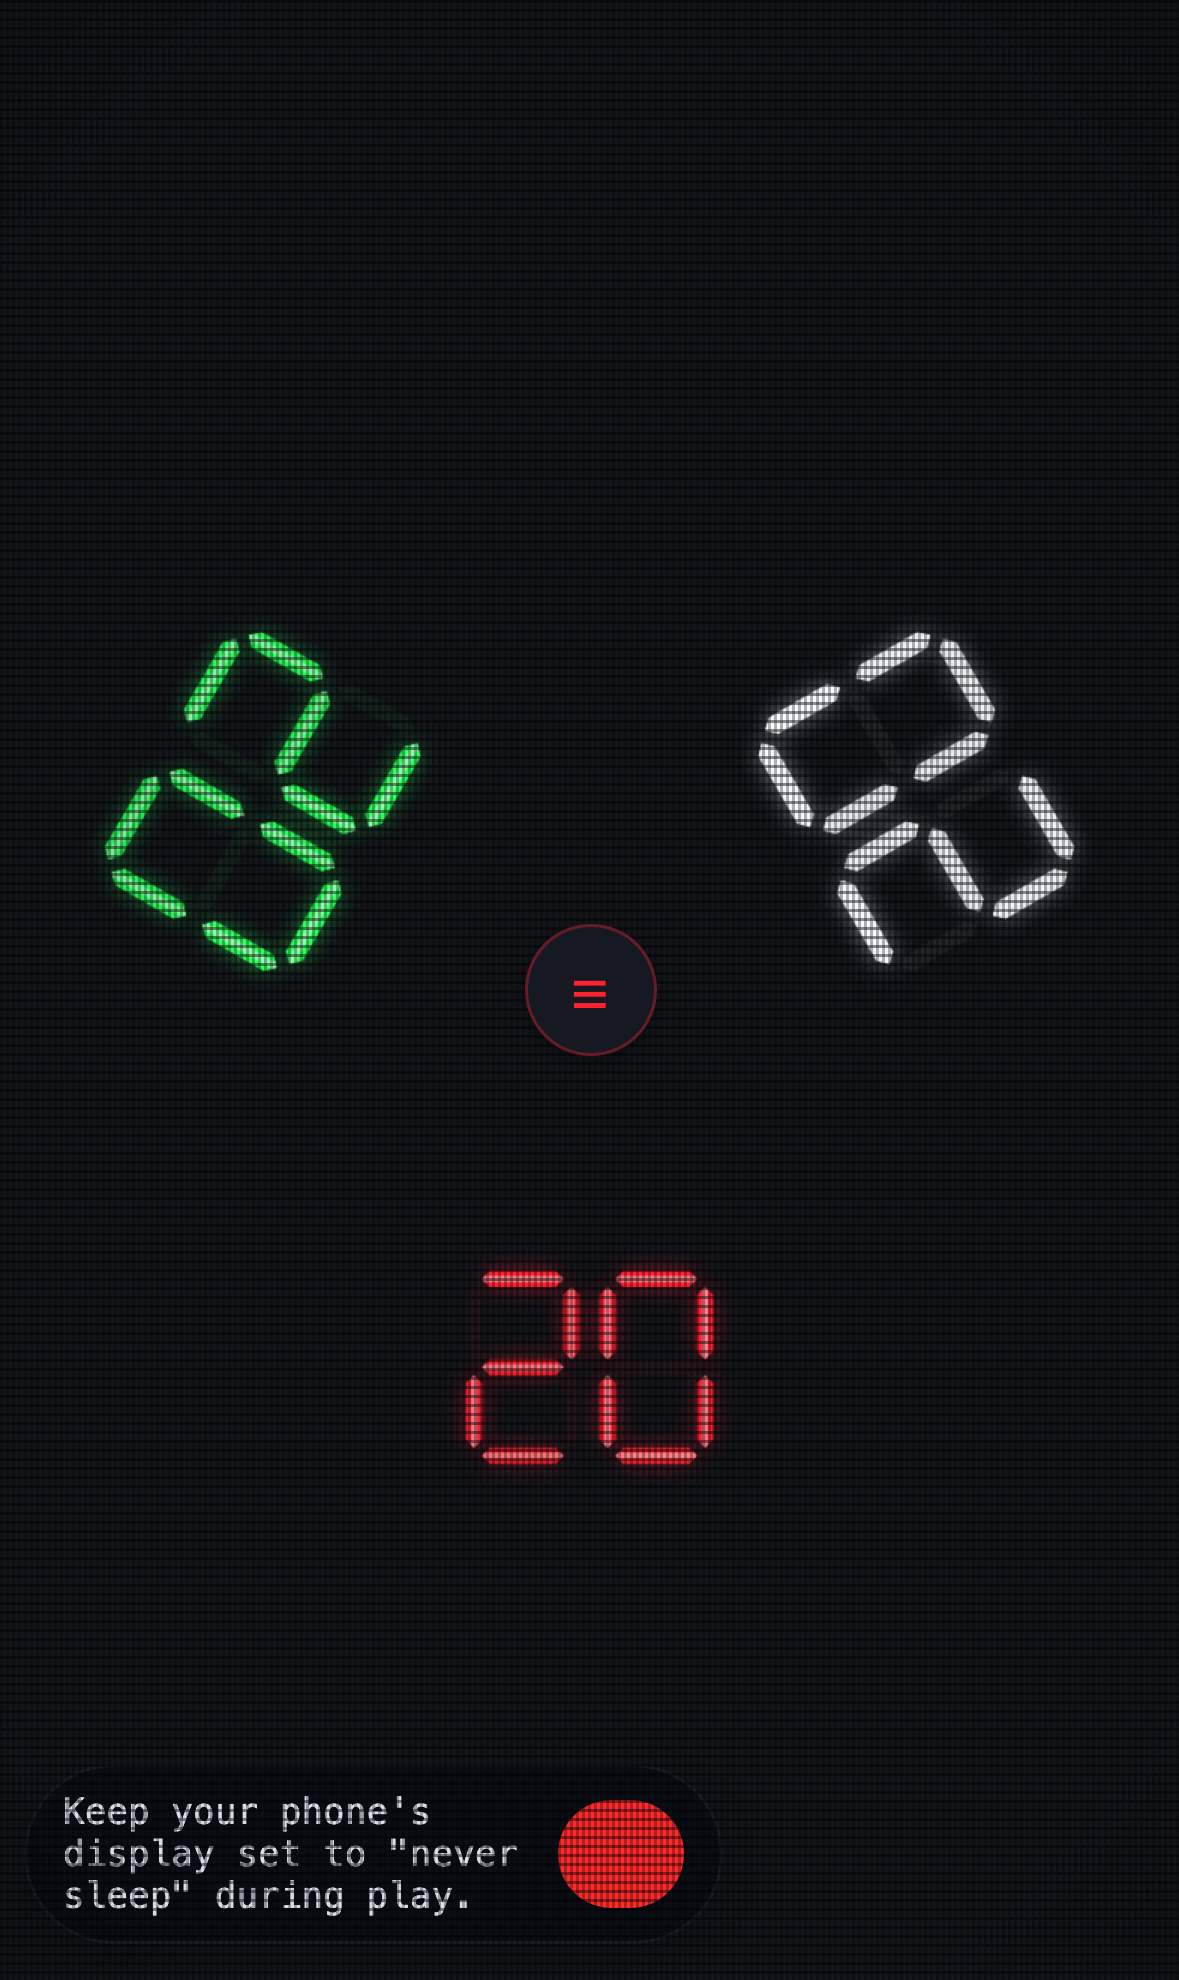
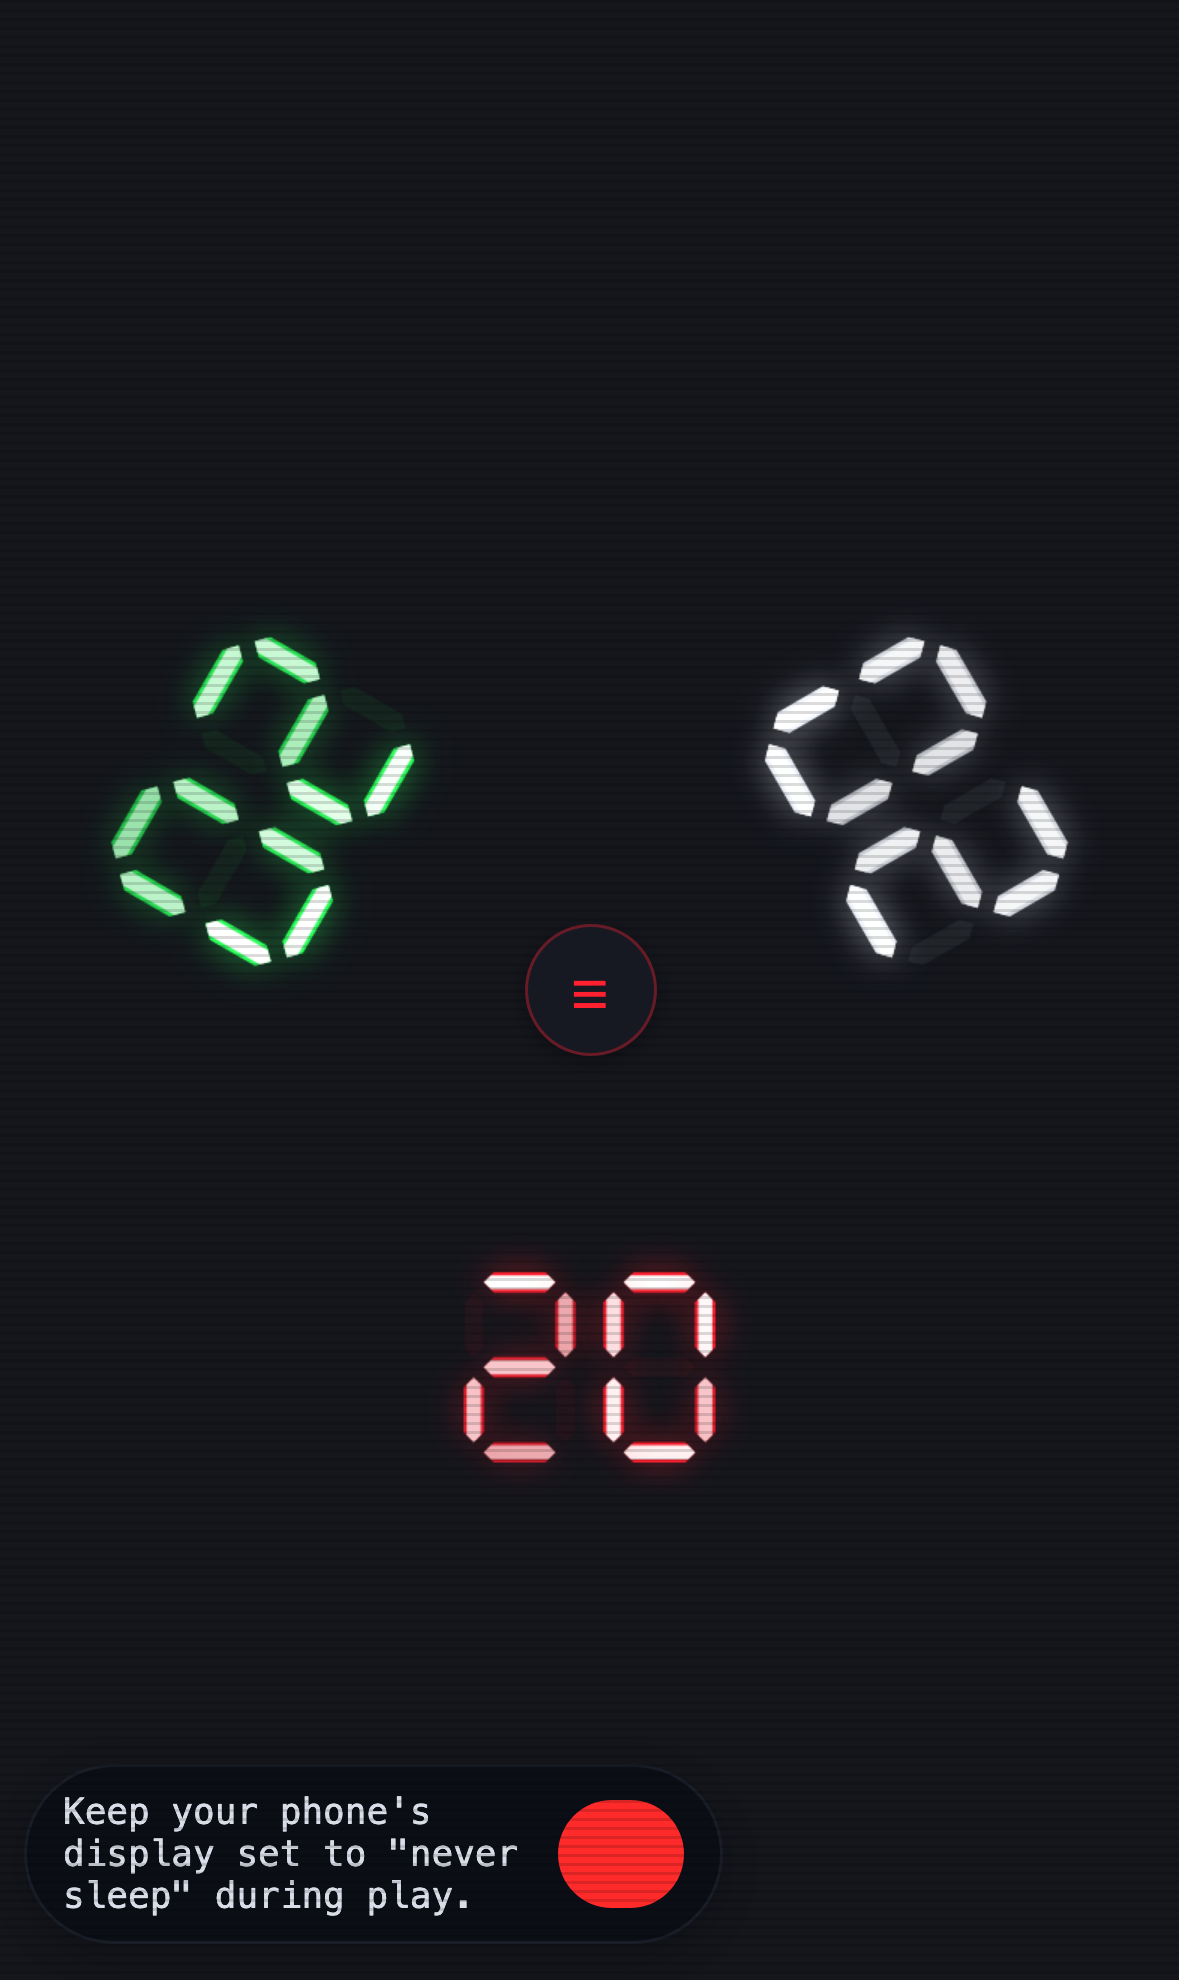
7seg: lock in Gerald's tuned defaults
After live ?admin slider tuning. New defaults (13 sliders, in order):

  digitScale         0.55
  segmentThickness   0.18
  digitAspect        1.7
  digitGap           0.25
  glowBlur           25
  ghostAlpha         0.06
  jitterAmount       0.5
  coreWhite          1
  coreThickness      0.7
  scanlineAlpha      0.14
  vgrilleAlpha       0
  vignetteAlpha      0
  flickerDuration    0

Synced across three places so first-load and post-slider state match:
- DEFAULTS object in sevenseg.js
- SLIDERS array's `default` field in sevenseg.js
- CSS fallback values in body[data-skin="seven-seg"]::after

Visual upshot: thicker segments (0.18), wider digit gaps (0.25),
maximal hot-core white at 70% thickness, strong glow (25px),
maximal brightness jitter for character. CRT effect dialled down
to scanlines-only (0.14 alpha); aperture grille, vignette and
flicker all off.

diff --git a/js/sevenseg.js b/js/sevenseg.js
@@ -35,18 +35,19 @@ const SEGMENTS_FOR_DIGIT = {
 };
 const ALL_SEGMENTS = ["a", "b", "c", "d", "e", "f", "g"];
 
+// Defaults locked in by Gerald 2026-05-25 after live tuning via ?admin sliders.
 const DEFAULTS = {
-  segmentThickness: 0.14,   // fraction of digit width
-  digitAspect: 1.7,         // height / width — taller looks more retro
-  digitGap: 0.18,           // gap between digits as fraction of digit width
-  digitScale: 0.55,         // scale applied after bbox-fit (smaller = neater)
-  glowBlur: 16,             // shadow blur in CSS px for the outer halo
-  innerGlowBlur: 4,
-  ghostAlpha: 0.06,         // visibility of "off" segments
-  jitterAmount: 0.25,       // 0-1, how much per-segment brightness varies
-  bloomAlpha: 0.10,         // faint rect bloom drawn behind each segment
-  coreWhite: 0.45,          // 0-1, opacity of the white "hot core" inside each segment
-  coreThickness: 0.40,      // 0.1-0.9, white-core hex thickness as fraction of segment thickness
+  digitScale: 0.55,
+  segmentThickness: 0.18,
+  digitAspect: 1.7,
+  digitGap: 0.25,
+  glowBlur: 25,
+  innerGlowBlur: 4,         // not exposed in sliders; tracks glowBlur visually
+  ghostAlpha: 0.06,
+  jitterAmount: 0.5,
+  bloomAlpha: 0.10,         // not exposed in sliders
+  coreWhite: 1,
+  coreThickness: 0.7,
 };
 
 const STATE = {
@@ -88,18 +89,18 @@ export function getFps() {
 
 export const SLIDERS = [
   { key: "digitScale", label: "Digit scale", min: 0.30, max: 1.00, step: 0.02, default: 0.55 },
-  { key: "segmentThickness", label: "Segment thickness", min: 0.08, max: 0.28, step: 0.01, default: 0.14 },
+  { key: "segmentThickness", label: "Segment thickness", min: 0.08, max: 0.28, step: 0.01, default: 0.18 },
   { key: "digitAspect", label: "Digit aspect (h/w)", min: 1.3, max: 2.2, step: 0.05, default: 1.7 },
-  { key: "digitGap", label: "Digit gap", min: 0.05, max: 0.40, step: 0.01, default: 0.18 },
-  { key: "glowBlur", label: "Glow blur (px)", min: 0, max: 40, step: 1, default: 16 },
+  { key: "digitGap", label: "Digit gap", min: 0.05, max: 0.40, step: 0.01, default: 0.25 },
+  { key: "glowBlur", label: "Glow blur (px)", min: 0, max: 40, step: 1, default: 25 },
   { key: "ghostAlpha", label: "Ghost segment α", min: 0, max: 0.30, step: 0.005, default: 0.06 },
-  { key: "jitterAmount", label: "Brightness jitter", min: 0, max: 0.50, step: 0.01, default: 0.25 },
-  { key: "coreWhite", label: "Hot-core white α", min: 0, max: 1.0, step: 0.02, default: 0.45 },
-  { key: "coreThickness", label: "Hot-core thickness", min: 0.10, max: 0.90, step: 0.02, default: 0.40 },
-  { key: "scanlineAlpha", label: "CRT scanlines α", min: 0, max: 0.90, step: 0.02, default: 0.45 },
-  { key: "vgrilleAlpha", label: "CRT aperture α", min: 0, max: 0.80, step: 0.02, default: 0.30 },
-  { key: "vignetteAlpha", label: "CRT vignette α", min: 0, max: 1.0, step: 0.02, default: 0.55 },
-  { key: "flickerDuration", label: "CRT flicker (s, 0=off)", min: 0, max: 10, step: 0.5, default: 4.5 },
+  { key: "jitterAmount", label: "Brightness jitter", min: 0, max: 0.50, step: 0.01, default: 0.5 },
+  { key: "coreWhite", label: "Hot-core white α", min: 0, max: 1.0, step: 0.02, default: 1 },
+  { key: "coreThickness", label: "Hot-core thickness", min: 0.10, max: 0.90, step: 0.02, default: 0.7 },
+  { key: "scanlineAlpha", label: "CRT scanlines α", min: 0, max: 0.90, step: 0.02, default: 0.14 },
+  { key: "vgrilleAlpha", label: "CRT aperture α", min: 0, max: 0.80, step: 0.02, default: 0 },
+  { key: "vignetteAlpha", label: "CRT vignette α", min: 0, max: 1.0, step: 0.02, default: 0 },
+  { key: "flickerDuration", label: "CRT flicker (s, 0=off)", min: 0, max: 10, step: 0.5, default: 0 },
 ];
 
 export function startSevenSeg() {

diff --git a/index.html b/index.html
@@ -11,22 +11,22 @@
 
 <title>laifukeisan</title>
 
-<link rel="manifest" href="manifest.webmanifest?v=c8d2656b">
-<link rel="apple-touch-icon" href="icons/apple-touch-icon.png?v=c8d2656b">
+<link rel="manifest" href="manifest.webmanifest?v=e361d204">
+<link rel="apple-touch-icon" href="icons/apple-touch-icon.png?v=e361d204">
 
-<link rel="stylesheet" href="css/tokens.css?v=c8d2656b">
-<link rel="stylesheet" href="css/base.css?v=c8d2656b">
-<link rel="stylesheet" href="css/layout.css?v=c8d2656b">
-<link rel="stylesheet" href="css/skins.css?v=c8d2656b">
+<link rel="stylesheet" href="css/tokens.css?v=e361d204">
+<link rel="stylesheet" href="css/base.css?v=e361d204">
+<link rel="stylesheet" href="css/layout.css?v=e361d204">
+<link rel="stylesheet" href="css/skins.css?v=e361d204">
   <meta http-equiv="Cache-Control" content="no-cache, no-store, must-revalidate">
   <meta http-equiv="Pragma" content="no-cache">
   <meta http-equiv="Expires" content="0">
-  <meta name="cb" content="c8d2656b">
-  <link rel="icon" type="image/svg+xml" href="cb-shapes/08.svg?v=c8d2656b">
+  <meta name="cb" content="e361d204">
+  <link rel="icon" type="image/svg+xml" href="cb-shapes/35.svg?v=e361d204">
 </head>
 <body data-skin="pastel">
 <main id="board" aria-label="Life counters"></main>
 
-<script type="module" src="js/main.js?v=c8d2656b"></script>
+<script type="module" src="js/main.js?v=e361d204"></script>
 </body>
 </html>

diff --git a/css/skins.css b/css/skins.css
@@ -189,23 +189,23 @@ body[data-skin="seven-seg"]::after {
        the classic CRT row pattern */
     repeating-linear-gradient(
       to bottom,
-      rgba(0, 0, 0, var(--crt-scanline-alpha, 0.45)) 0 1px,
+      rgba(0, 0, 0, var(--crt-scanline-alpha, 0.14)) 0 1px,
       transparent 1px 3px
     ),
     /* vertical aperture-grille hint — same logic, also black */
     repeating-linear-gradient(
       to right,
-      rgba(0, 0, 0, var(--crt-vgrille-alpha, 0.30)) 0 1px,
+      rgba(0, 0, 0, var(--crt-vgrille-alpha, 0)) 0 1px,
       transparent 1px 2px
     ),
     /* corner vignette — darkens edges if/when something there to darken */
     radial-gradient(
       ellipse 120% 100% at center,
       transparent 55%,
-      rgba(0, 0, 0, var(--crt-vignette-alpha, 0.55)) 100%
+      rgba(0, 0, 0, var(--crt-vignette-alpha, 0)) 100%
     );
   mix-blend-mode: multiply;
-  animation: crt-flicker var(--crt-flicker-duration, 4.5s) steps(60) infinite;
+  animation: crt-flicker var(--crt-flicker-duration, 0s) steps(60) infinite;
 }
 @keyframes crt-flicker {
   0%, 100% { opacity: 1; }

diff --git a/sw.js b/sw.js
@@ -1,4 +1,4 @@
-const CB_TOKEN = "c8d2656b";
+const CB_TOKEN = "e361d204";
 const CACHE_NAME = `lifecounter-${CB_TOKEN}`;
 
 const BADGE_CELLS = [0, 1, 2].map(i =>
